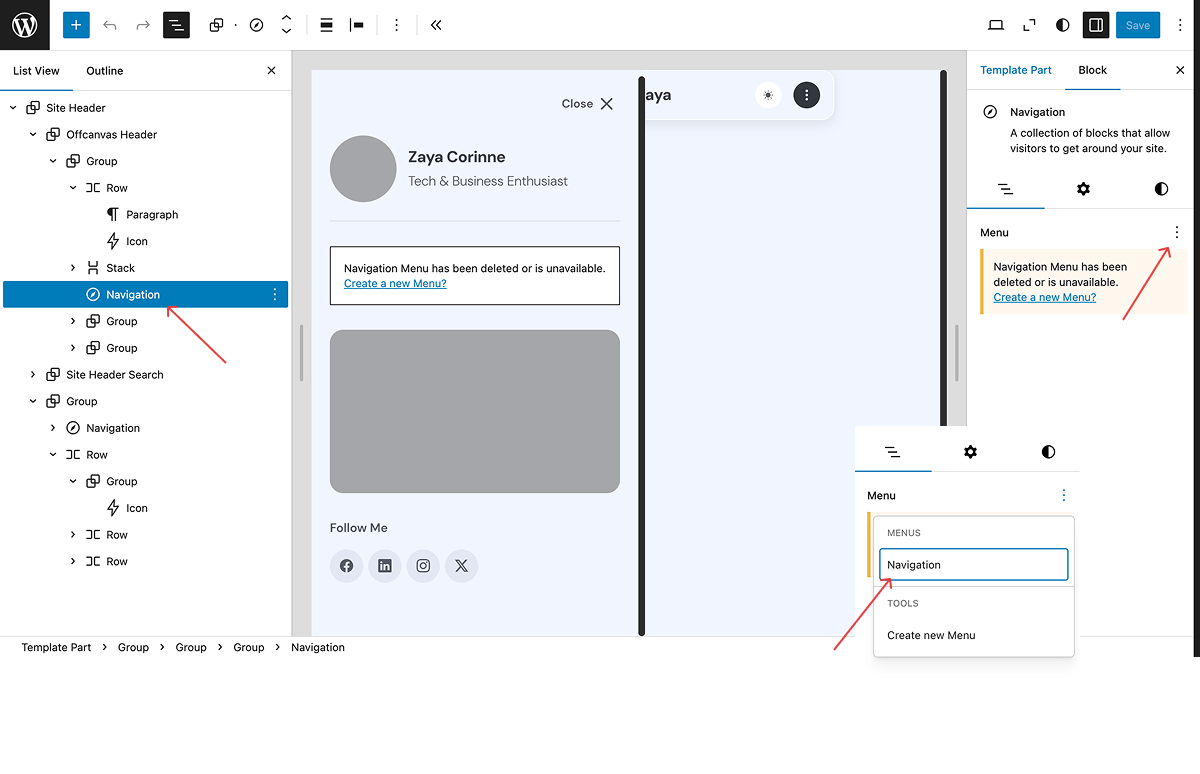
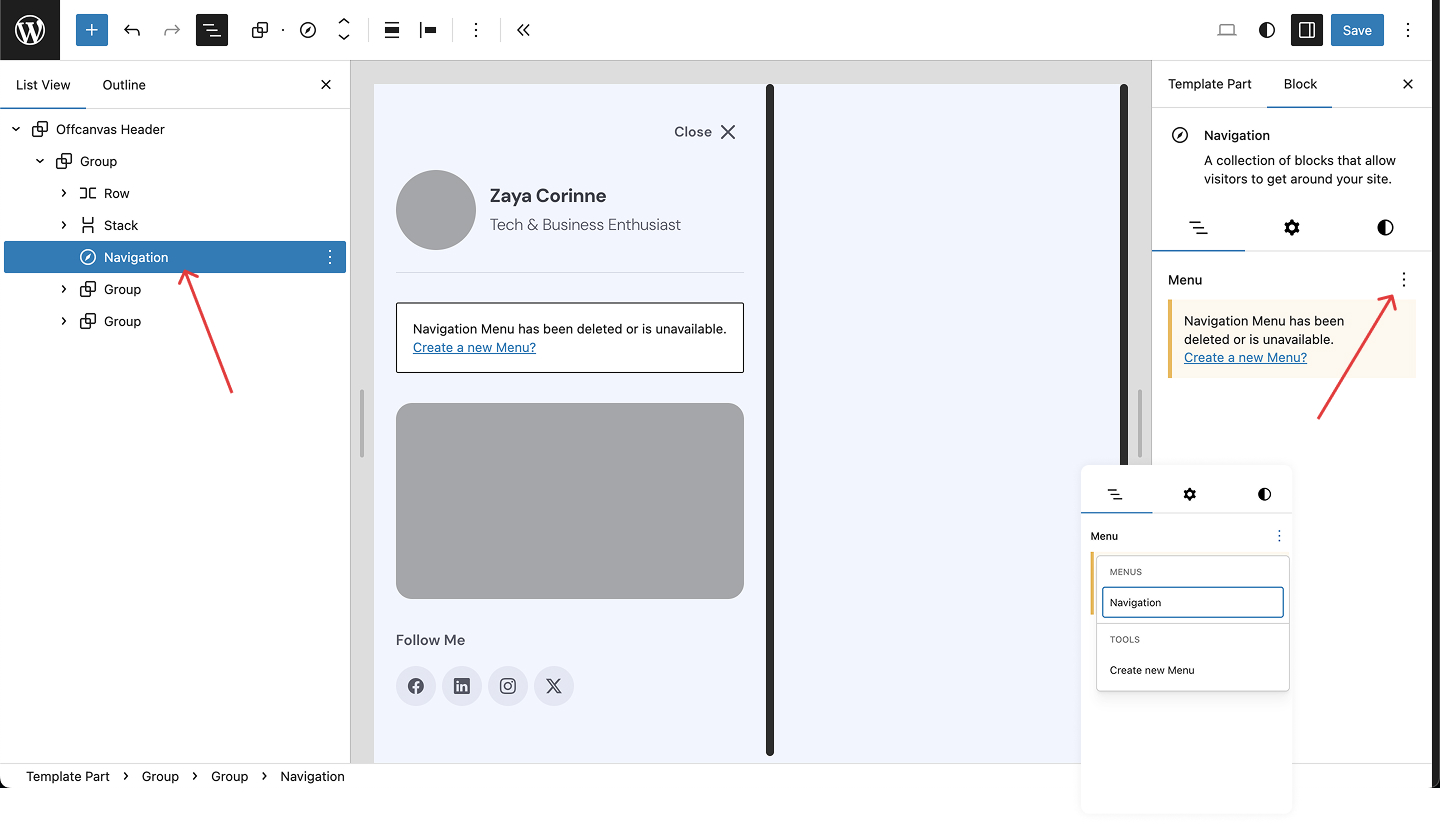
Zaya v1.1.0 (#9)
* update zaya navigation and header docs
* add demo content information

diff --git a/docs/zaya/header.md b/docs/zaya/header.md
@@ -1,0 +1,52 @@
+---
+sidebar_position: 5
+---
+# Header
+The Zaya theme uses multiple header template parts that work together to create a flexible and responsive navigation system. Below you'll find how you can edit each part of the header.
+
+![header template parts](/img/zaya/header-template-parts.jpg)
+
+:::info
+Starting from version **1.1.0**, the header is split into three separate template parts. In earlier versions, it was combined in a single template part called **Header**.
+:::
+
+## Main Header
+The Main Header includes your site title or logo, the primary navigation, dark light toggle, search box toggle, and the hamburger icon that opens the mobile menu.
+
+![main header](/img/zaya/main-header.jpg)
+
+### Make the Header Sticky
+1. Open Appearance > Editor > Patterns > All template parts and choose **Header**.
+2. Select the Site Header group block (the wrapper).
+3. In the right sidebar settings, you’ll see a Sticky Header toggle.
+4. Switch it on to make your header sticky.
+5. Save your changes.
+
+![enable sticky header](/img/zaya/header-sticky-enabled.jpg)
+
+## Header Search
+The Header Search template part is split into two columns. On the left you’ll find an image placeholder you can replace with your own banner, text "Stay Connected" that you can change freely, and the custom Social Media block where you can add your own links and icons. 
+On the right, you’ll see a search block and a Categories List block that automatically displays your post categories.
+
+![header search offcanvas](/img/zaya/header-search-offcanvas.jpg)
+
+### Customize Header Search
+1. Go to Appearance > Editor > Patterns > All template parts and then select **Header Search**.
+2. To replace the image: click the image placeholder block then click Replace to upload or choose an image from the Media Library.
+3. Edit the “Stay Connected” text if you want a different heading.
+4. To update social links: click the Social Media custom block and edit the URLs or icon settings in the block controls.
+5. To change search or categories settings: click the Search block or the Categories List block and use the right sidebar to adjust available options.
+
+## Offcanvas Header
+Mobile navigation designed to appear when a user taps the hamburger icon in the Main Header
+
+### Edit Offcanvas Header - step by step
+1. Go to Appearance > Editor > Patterns > All template parts and then select **Offcanvas Header**.
+2. Click into the Navigation block inside the offcanvas template part.
+3. In the block toolbar choose the same menu that you use in the Main Header navigation. Using the same menu keeps navigation consistent across desktop and mobile.
+4. Make any additional layout edits you want to the offcanvas area.
+5. Click Save.
+
+:::info
+The offcanvas is triggered by the hamburger icon in the Main Header. If you do not see the hamburger on your front end, verify that the Main Header still contains the hamburger icon block or pattern.
+:::

diff --git a/docs/zaya/installation.md b/docs/zaya/installation.md
@@ -75,20 +75,25 @@ The following plugins are required for this theme to function optimally. Please 
 ![install required plugins](/img/zaya/install-required-plugin.webp)
 
 ## Demo Content
+To help you get started quickly, **Zaya** includes demo content that you can import with just a few clicks. This will make your site look similar to the theme demo, so you can start customizing right away.
 
-With the latest block theme features in WordPress, creating a page similar to the demo no longer requires uploading demo content. Instead, you can use pre-designed patterns, which are ready-made sections and layouts specifically crafted to match the demo style. 
+### Before You Begin
+Make sure you have installed and activated the required plugin:  
+- [One Click Demo Import](https://wordpress.org/plugins/one-click-demo-import/)
 
-To build a page like the theme demo, simply go to the Block Inserter, select **Patterns**, and choose from the available layouts to add them to your page. 
+Without this plugin, the demo import option will not be available.
 
-You can combine multiple patterns to achieve the exact look you want, then customize text, images, and other settings as needed to fully personalize the design. This approach offers more flexibility and allows you to mix, match, and style your site effortlessly.
+### How to Import Demo Content
+1. Go to **Appearance → Import Demo Data** in your WordPress dashboard.  
+2. Click the **Import Demo Data** button.  
+3. Wait for the process to complete (this may take a few minutes depending on your hosting).  
+4. Once finished, your site will include demo pages, posts, menus, and widgets.  
 
-### How to Build a Page with Patterns
-1. Navigate to **Appearance** → **Editor** → **Pages** in your WordPress dashboard.
-2. Create a new page by clicking **Add New**.
-3. In the page settings, change the template to **Landing**.
-4. Click the + icon to open the block inserter.
-5. In the search bar, type **Home**.
-6. Select the **Home** pattern from the results.
-7. Customize the content as needed to suit your preferences.
+### After Import
+- Your site should now look similar to the **Zaya demo**.  
+- You can start replacing the demo text and images with your own content.  
+- If you don’t need all the demo content, you can safely delete the pages or posts you don’t plan to use.  
 
-<iframe src="https://drive.google.com/file/d/1U6EkDRXyoAKhXqrqx98KkzSxldzMBw6i/preview" width="800" height="450" allow="autoplay"></iframe>
+:::info
+Importing demo content is **optional**. If you prefer to build your site from scratch, you can skip this step.
+:::

diff --git a/docs/zaya/navigation.md b/docs/zaya/navigation.md
@@ -1,5 +1,5 @@
 ---
-sidebar_position: 5
+sidebar_position: 4
 ---
 # Navigation
 
@@ -28,7 +28,7 @@ To set up and customize the navigation menu in this theme's header, follow these
 This theme also includes an Offcanvas Header, designed to provide a modern and mobile-friendly navigation experience. Just like the standard header navigation, it uses the Navigation Block, allowing you to fully customize the menu items.
 
 To set up and customize the navigation in the offcanvas header, follow this step
-1. Click the hamburger menu icon on the top header to open the offcanvas menu. 
+1. In the editor, go to  **Pattern → Header** then Select the Offcanvas Header template part
    ![offcanvas header navigation](/img/zaya/offcanvas-header-step-1.jpg)
 2. Select a Navigation Menu 
    -  Click on the Navigation block from the left sidebar.
@@ -38,7 +38,9 @@ To set up and customize the navigation in the offcanvas header, follow this step
 3. Once your navigation is added to the offcanvas header, you can edit the menu items, change the layout, or adjust design settings using the block options.
    ![offcanvas header navigation](/img/zaya/offcanvas-header-step-3.jpg)
 :::info
-The offcanvas menu is usually triggered by a menu icon (hamburger icon) on smaller screens
+The offcanvas menu is typically triggered by a hamburger icon on smaller screens.   
+Starting with **version 1.1.0**, the offcanvas has been moved to its own template part. In earlier versions, it was included within the main header template part.
 :::
-
-Make sure your navigation structure in both the regular header and the offcanvas menu stays consistent for a seamless user experience.
+:::tip
+Make sure your navigation structure in both the main header and the offcanvas header stays consistent for a seamless user experience.
+:::

diff --git a/docs/zaya/pages.md b/docs/zaya/pages.md
@@ -27,3 +27,22 @@ Now your page will use the clean, title-free layout ideal for custom landing des
 You can view and manage all available templates by going to **Appearance → Editor → Templates**, as shown in the image below.
 
 ![templates](/img/zaya/templates.jpg)
+
+
+## Page Pattern
+With the latest block theme features in WordPress, creating a page similar to the demo no longer requires uploading demo content. Instead, you can use pre-designed patterns, which are ready-made sections and layouts specifically crafted to match the demo style. 
+
+To build a page like the theme demo, simply go to the Block Inserter, select **Patterns**, and choose from the available layouts to add them to your page. 
+
+You can combine multiple patterns to achieve the exact look you want, then customize text, images, and other settings as needed to fully personalize the design. This approach offers more flexibility and allows you to mix, match, and style your site effortlessly.
+
+### How to Build a Page with Patterns
+1. Navigate to **Appearance** → **Editor** → **Pages** in your WordPress dashboard.
+2. Create a new page by clicking **Add New**.
+3. In the page settings, change the template to **Landing**.
+4. Click the + icon to open the block inserter.
+5. In the search bar, type **Home**.
+6. Select the **Home** pattern from the results.
+7. Customize the content as needed to suit your preferences.
+
+<iframe src="https://drive.google.com/file/d/1U6EkDRXyoAKhXqrqx98KkzSxldzMBw6i/preview" width="800" height="450" allow="autoplay"></iframe>
